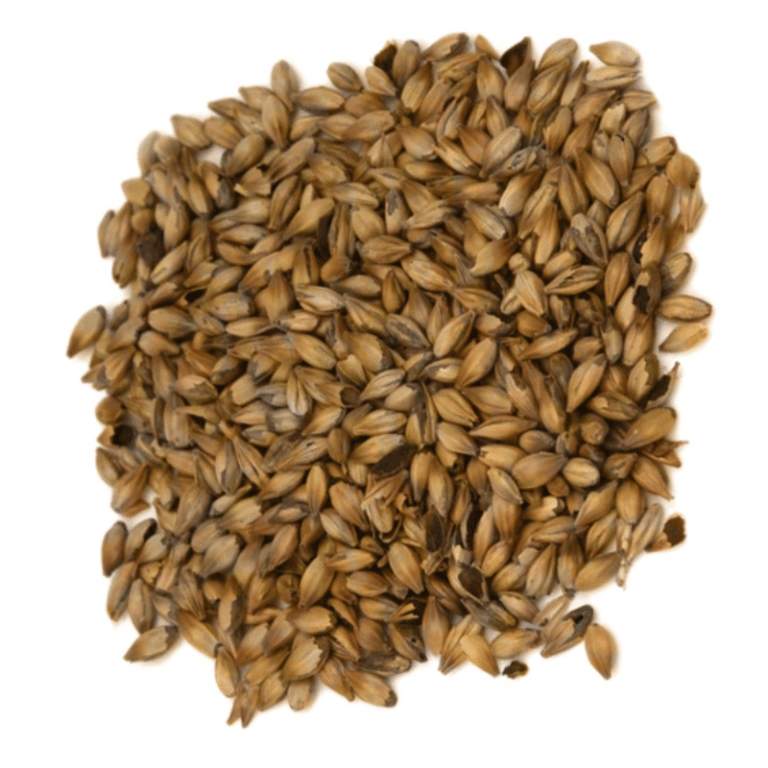
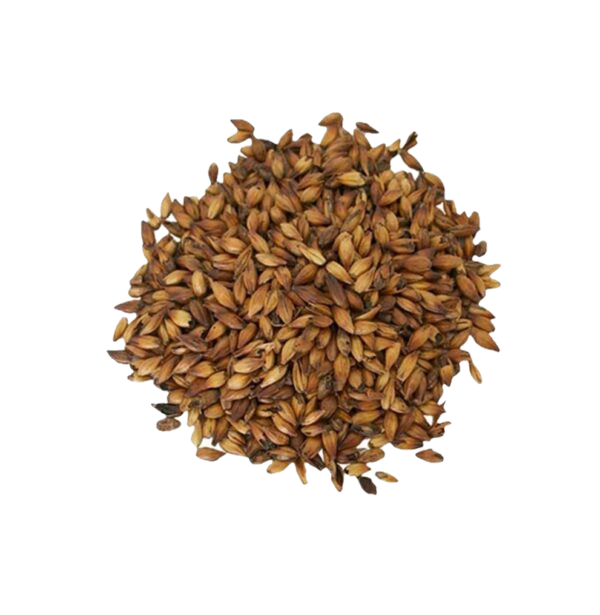
arreglos esteticos

diff --git a/html/tienda.html b/html/tienda.html
@@ -58,13 +58,13 @@
                     </form>
             </div>
             <div class="container-fluid">
-                <div class="row">
+                <div class=" row">
                     <aside class="col-md-3">
-                    <div class="bg-light p-3">
-                        <h5 class="fw-bold">
-                            CATEGORÍAS
-                        </h5>
-                        <ul class="list-unstyled">
+                        <div class="aside p-3">
+                            <h5 class="fw-bold">
+                                CATEGORÍAS
+                            </h5>
+                            <ul class="list-unstyled">
                             <li>
                                 Cebadas <span class="badge bg-secondary"></span>
                             </li>
@@ -74,26 +74,26 @@
                             <li>
                                 Levaduras <span class="badge bg-secondary"></span>
                             </li>
-                        </ul>
-                        <h5 class="fw-bold mt-4">
-                            FILTRAR POR PRECIO
-                        </h5>
-                        <form>
-                            <div class="form-group">
-                                <label for="priceRange">Precio:</label>
-                                <input type="range" class="form-range" id="priceRange" min="200" max="25429010">
-                            </div>
-                            <button type="submit" class="btn btn-primary w-100 mt-2">Filtrar</button>
-                            <p class="mt-2">Precio: $10.000 — $25.000</p>
-                        </form>
-                    </div>
+                            </ul>
+                            <h5 class="fw-bold mt-4">
+                                FILTRAR POR PRECIO
+                            </h5>
+                            <form>
+                                <div class="form-group">
+                                    <label for="priceRange">Precio:</label>
+                                    <input type="range" class="form-range" id="priceRange" min="200" max="25429010">
+                                </div>
+                                <button type="submit" class="btn btn-dark w-100 mt-2">Filtrar</button>
+                                <p class="mt-2">Precio: $10.000 — $25.000</p>
+                            </form>
+                        </div>
                     </aside>
-<!-     Sección de productos -->
+<!-     Sección de productos -!>
                     <section class="col-md-9">
                         <div class="row">
                             <div class="col-lg-4 col-md-6 mb-4">
                                 <div class="card">
-                                    <img src="../imagenes/productos/malta caramelo.jpg" class="card-img-top img-fluid" alt="Producto 2">
+                                    <img src="../imagenes/productos/malta caramelo.png" class="card-img-top img-fluid" alt="Producto 2">
                                     <div class="card-body">
                                         <h5 class="card-title">malta caramelo x 25kg</h5>
                                         <p class="card-text fw-bold">$20.200</p>
@@ -113,7 +113,7 @@
                             </div>
                             <div class="col-lg-4 col-md-5 mb-4">
                                 <div class="card">
-                                    <img src="../imagenes/productos/malta chocolate.jpeg" class="card-img-top img-fluid" alt="Producto 3">
+                                    <img src="../imagenes/productos/malta chocolate.png" class="card-img-top img-fluid" alt="Producto 3">
                                     <div class="card-body">
                                         <h5 class="card-title">malta chocolate x 25kg</h5>
                                         <p class="card-text fw-bold">$23.000</p>
@@ -123,7 +123,7 @@
                             </div>
                             <div class="col-lg-4 col-md-6 mb-4">
                                 <div class="card">
-                                    <img src="../imagenes/productos/malta pale ale.jpg" class="card-img-top img-fluid" alt="Producto 3">
+                                    <img src="../imagenes/productos/malta pale ale.png" class="card-img-top img-fluid" alt="Producto 3">
                                     <div class="card-body">
                                         <h5 class="card-title">malta pale ale x 25kg</h5>
                                         <p class="card-text fw-bold">$15.000</p>
@@ -133,7 +133,7 @@
                             </div>
                             <div class="col-lg-4 col-md-6 mb-4">
                                 <div class="card">
-                                    <img src="../imagenes/productos/malta pilsen.jpg" class="card-img-top img-fluid" alt="Producto 3">
+                                    <img src="../imagenes/productos/malta pilsen.png" class="card-img-top img-fluid" alt="Producto 3">
                                     <div class="card-body">
                                         <h5 class="card-title">malta pilsen x 25kg</h5>
                                         <p class="card-text fw-bold">$18.000</p>
@@ -143,7 +143,7 @@
                             </div>
                             <div class="col-lg-4 col-md-6 mb-4">
                                 <div class="card">
-                                    <img src="../imagenes/productos/malta vienna.jpeg" class="card-img-top img-fluid" alt="Producto 3">
+                                    <img src="../imagenes/productos/malta vienna.png" class="card-img-top img-fluid" alt="Producto 3">
                                     <div class="card-body">
                                         <h5 class="card-title">malta vienna x 25kg</h5>
                                         <p class="card-text fw-bold">$15.000</p>
@@ -153,7 +153,7 @@
                             </div>
                             <div class="col-lg-4 col-md-6 mb-4">
                                 <div class="card">
-                                    <img src="../imagenes/productos/trigo malteado.jpeg" class="card-img-top img-fluid" alt="Producto 3">
+                                    <img src="../imagenes/productos/trigo malteado.png" class="card-img-top img-fluid" alt="Producto 3">
                                     <div class="card-body">
                                         <h5 class="card-title">trigo malteado x 25kg</h5>
                                         <p class="card-text fw-bold">$23.000</p>

diff --git a/css/styles.css b/css/styles.css
@@ -40,9 +40,18 @@ aside {
   z-index: 0;
 }
 
+.aside {
+  background-color: rgba(103, 81, 65, 0.7019607843) !important;
+  border-radius: 5px;
+}
+
 .card-title {
   text-transform: capitalize;
   text-align: center;
+}
+
+.card {
+  background-color: rgba(103, 81, 65, 0.7019607843) !important;
 }
 
 .featured {

diff --git a/css/_tienda.scss b/css/_tienda.scss
@@ -25,7 +25,16 @@ aside {
     z-index: 0;
 }
 
+.aside {
+    background-color: #675141b3 !important;
+    border-radius: 5px;
+}
+
 .card-title {
     text-transform: capitalize;
     text-align: center;
+}
+
+.card {
+    background-color: #675141b3 !important;
 }

diff --git a/css/styles.scss b/css/styles.scss
@@ -153,7 +153,7 @@ h5 {
     width: 100%;
     height: 280px;
     object-fit: cover;
-  }
+}
 
 .carousel-inner {
     margin-top: $separador;
